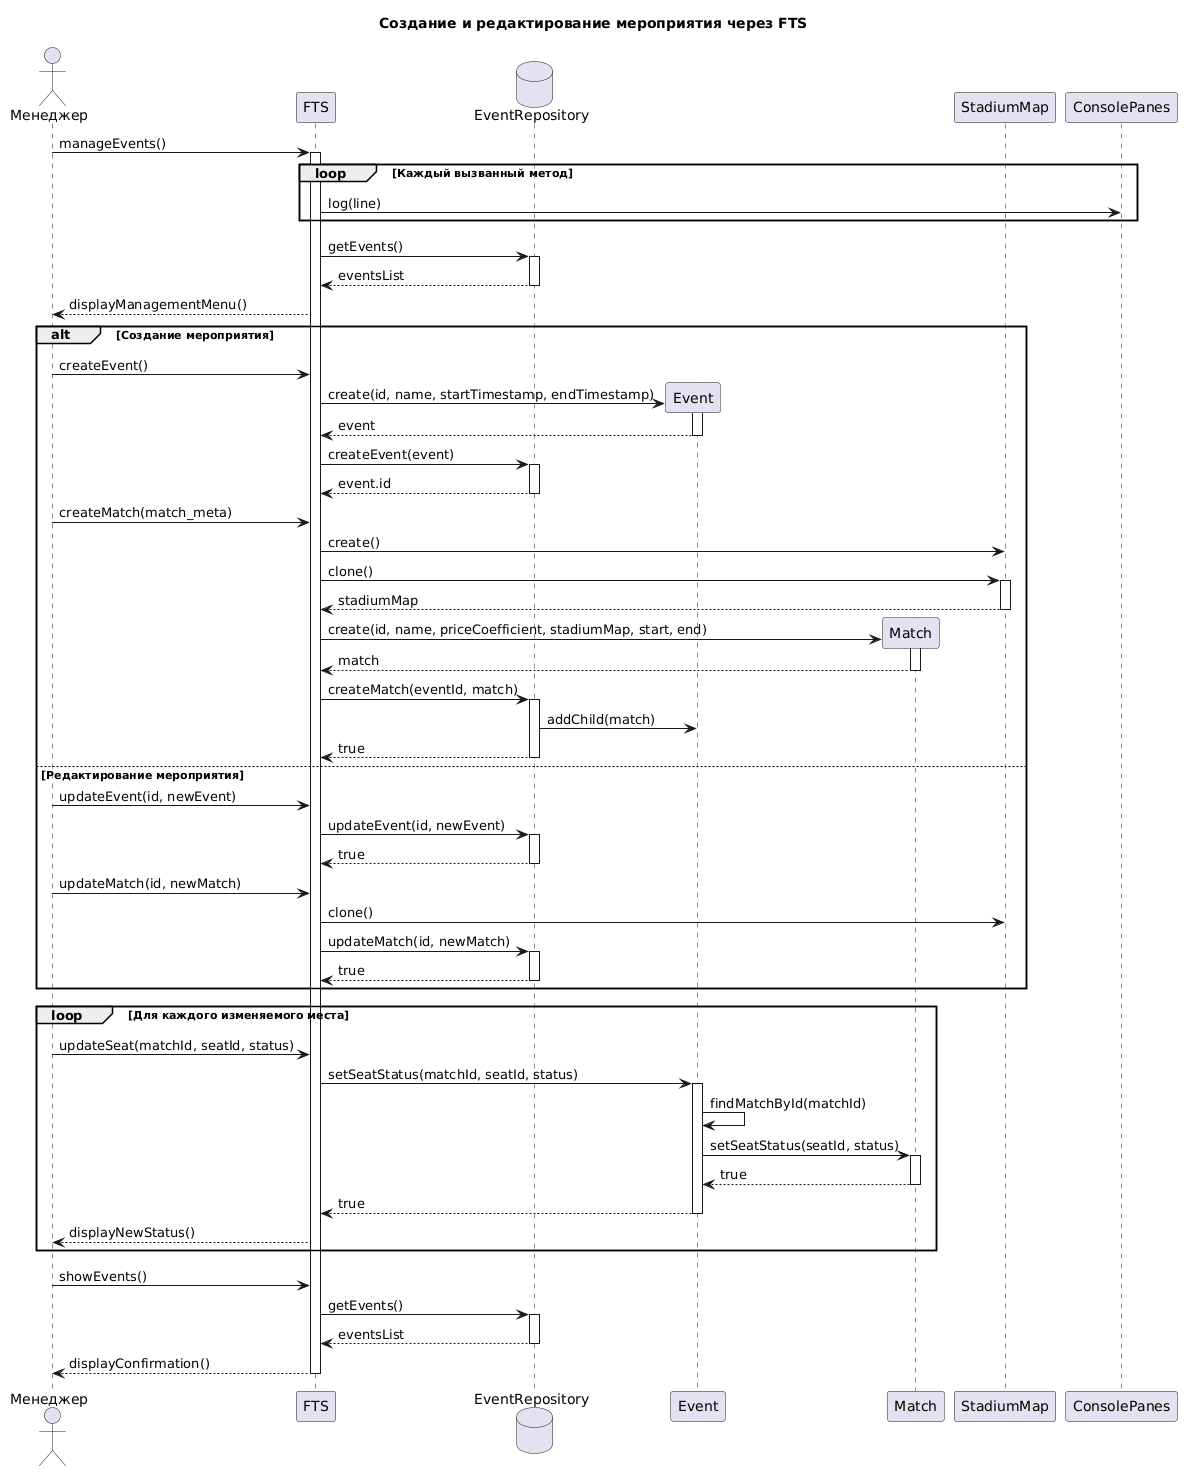
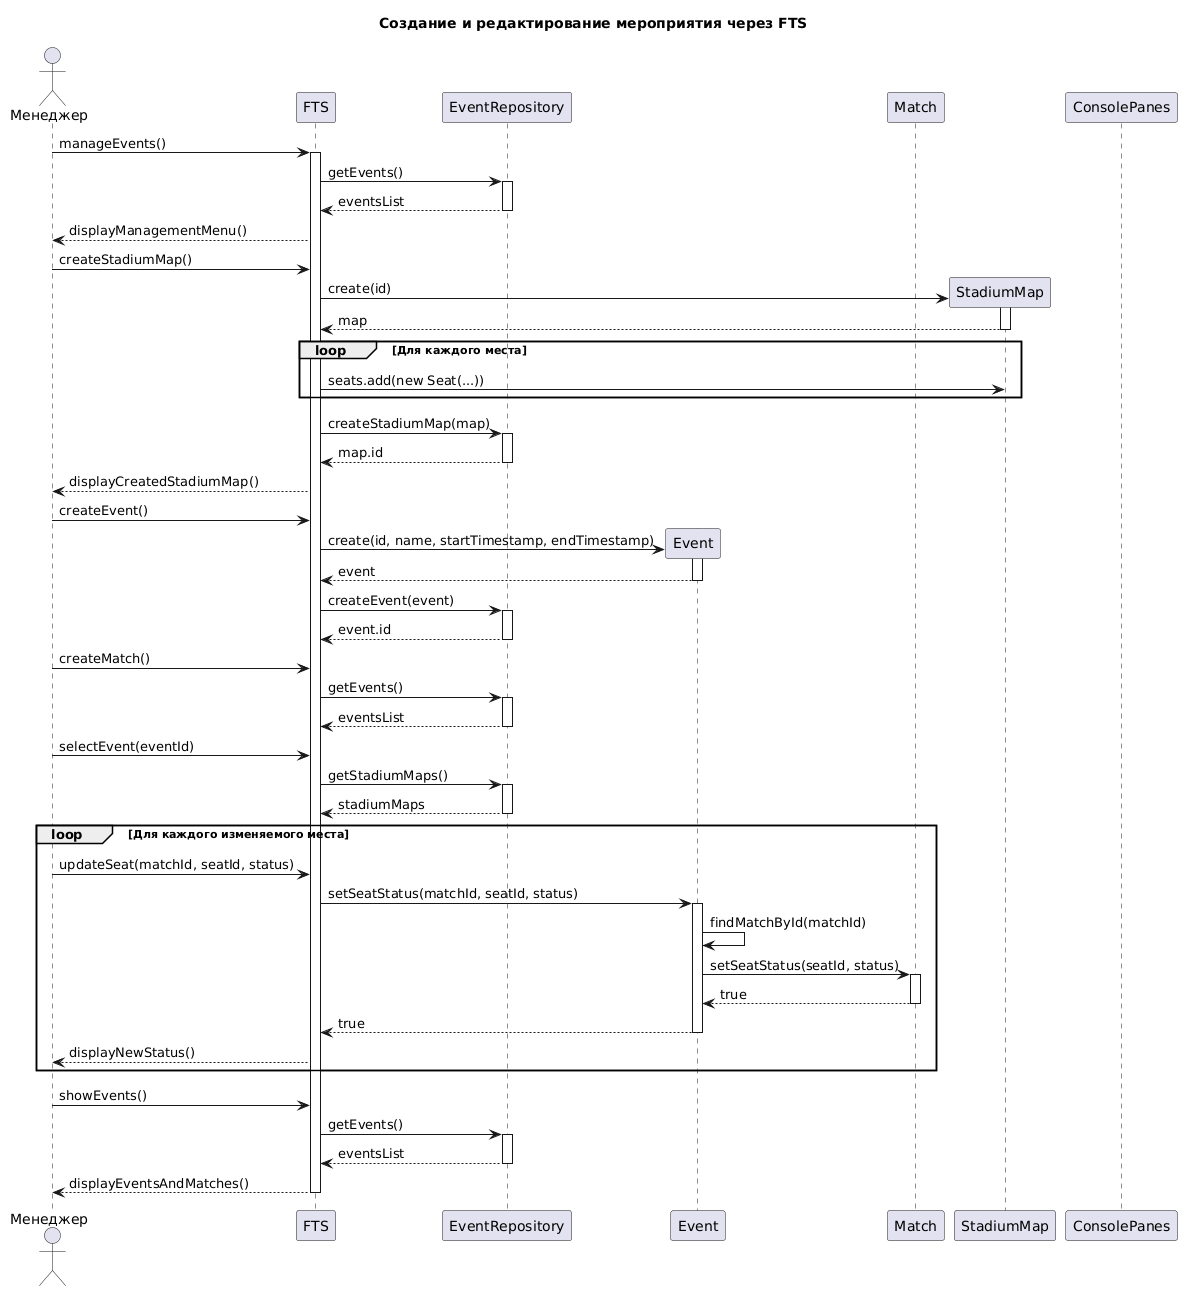
Major changes in Прецеденты +-[]-+

diff --git a/Преценденты/Создание и редактирование мероприятия/Диаграмма последовательности.md b/Преценденты/Создание и редактирование мероприятия/Диаграмма последовательности.md
@@ -16,25 +16,12 @@ participant "ConsolePanes" as Panes
 Manager -> FTS : manageEvents()
 activate FTS
 
-loop Каждый вызванный метод
-    FTS -> Panes : log(line)
-end
-
 FTS -> EventRepository : getEvents()
 activate EventRepository
 EventRepository --> FTS : eventsList
 deactivate EventRepository
 FTS --> Manager : displayManagementMenu()
 
-alt Панель управления картами стадиона
-    Manager -> FTS : manageStadiumMaps()
-    FTS -> EventRepository : getStadiumMaps()
-    activate EventRepository
-    EventRepository --> FTS : stadiumMaps
-    deactivate EventRepository
-    FTS --> Manager : displayStadiumMaps()
-
-    alt Создание карты стадиона
         Manager -> FTS : createStadiumMap()
         create StadiumMap
         FTS -> StadiumMap : create(id)
@@ -51,10 +38,8 @@ alt Панель управления картами стадиона
         EventRepository --> FTS : map.id
         deactivate EventRepository
         FTS --> Manager : displayCreatedStadiumMap()
-    end
-end
 
-alt Создание мероприятия
+
     Manager -> FTS : createEvent()
     create Event
     FTS -> Event : create(id, name, startTimestamp, endTimestamp)
@@ -66,7 +51,7 @@ alt Создание мероприятия
     activate EventRepository
     EventRepository --> FTS : event.id
     deactivate EventRepository
-else Создание матча
+
     Manager -> FTS : createMatch()
     FTS -> EventRepository : getEvents()
     activate EventRepository
@@ -79,55 +64,6 @@ else Создание матча
     EventRepository --> FTS : stadiumMaps
     deactivate EventRepository
 
-    alt Выбор существующей карты
-        Manager -> FTS : selectStadiumMap()
-        FTS -> EventRepository : findStadiumMapById(mapId)
-        activate EventRepository
-        EventRepository --> FTS : selectedMap
-        deactivate EventRepository
-    else Создание новой карты
-        Manager -> FTS : createStadiumMap()
-        create StadiumMap
-        FTS -> StadiumMap : create(id)
-        activate StadiumMap
-        StadiumMap --> FTS : newMap
-        deactivate StadiumMap
-        FTS -> EventRepository : createStadiumMap(newMap)
-        activate EventRepository
-        EventRepository --> FTS : newMap.id
-        deactivate EventRepository
-    end
-
-    FTS -> StadiumMap : clone()
-    activate StadiumMap
-    StadiumMap --> FTS : stadiumMap
-    deactivate StadiumMap
-
-    create Match
-    FTS -> Match : create(id, name, priceCoefficient, stadiumMap, start, end)
-    activate Match
-    Match --> FTS : match
-    deactivate Match
-
-    FTS -> EventRepository : createMatch(eventId, match)
-    activate EventRepository
-    EventRepository -> Event : addChild(match)
-    EventRepository --> FTS : true
-    deactivate EventRepository
-else Редактирование мероприятия
-    Manager -> FTS : updateEvent(id, newEvent)
-    FTS -> EventRepository : updateEvent(id, newEvent)
-    activate EventRepository
-    EventRepository --> FTS : true
-    deactivate EventRepository
-
-    Manager -> FTS : updateMatch(id, newMatch)
-    FTS -> StadiumMap : clone()
-    FTS -> EventRepository : updateMatch(id, newMatch)
-    activate EventRepository
-    EventRepository --> FTS : true
-    deactivate EventRepository
-end
 
 loop Для каждого изменяемого места
     Manager -> FTS : updateSeat(matchId, seatId, status)

diff --git a/Преценденты/Покупка билетов и абонементов/Диаграмма последовательности.md b/Преценденты/Покупка билетов и абонементов/Диаграмма последовательности.md
@@ -16,10 +16,6 @@ participant "ConsolePanes" as Panes
 User -> FTS : startPurchase()
 activate FTS
 
-loop Каждый вызванный метод
-    FTS -> Panes : log(line)
-end
-
 FTS -> FTS : getAvailableEvents()
 FTS -> EventRepository : getEvents()
 activate EventRepository
@@ -59,9 +55,7 @@ activate EventRepository
 EventRepository --> FTS : reservation
 deactivate EventRepository
 
-alt seatTaken
-    FTS --> User : seatTaken
-else seatReserved
+
     FTS -> Strategy : calculatePrice(seat, matches)
     Strategy --> FTS : price
     FTS --> User : showPurchaseDetails(event, match, seat, price)
@@ -74,7 +68,6 @@ else seatReserved
     activate Bank
     Bank -> Sber : createPurchase(token, description, amount)
     activate Sber
-    note over Sber : покупатель вводит данные карты\nна странице банка и подтверждает\nплатёж (3-D Secure)
     Sber --> Bank : url
     deactivate Sber
     Bank --> FTS : url
@@ -107,7 +100,7 @@ else seatReserved
     FTS -> FTS : showPurchaseConfirmation(pass)
     FTS -> FTS : sendTicketEmail(pass)
     FTS --> User : true
-end
+
 
 deactivate FTS
 @enduml

diff --git a/Преценденты/Возврат билетов и абонементов/Диаграмма последовательности.md b/Преценденты/Возврат билетов и абонементов/Диаграмма последовательности.md
@@ -16,10 +16,6 @@ participant "ConsolePanes" as Panes
 User -> FTS : startRefund()
 activate FTS
 
-loop Каждый вызванный метод
-    FTS -> Panes : log(line)
-end
-
 FTS -> User : requestScan()
 User -> FTS : passId
 
@@ -28,9 +24,6 @@ activate PassRepository
 PassRepository --> FTS : refundAllowed
 deactivate PassRepository
 
-alt Возврат запрещён
-    FTS --> User : scanAnotherPass()
-else Возврат разрешён
     FTS -> PassRepository : getPassById(passId)
     activate PassRepository
     PassRepository --> FTS : pass
@@ -73,7 +66,6 @@ else Возврат разрешён
     FTS -> FTS : sendEmail(email, text)
     FTS -> FTS : printReceipt(text)
     FTS --> User : waitForEnter()
-end
 
 deactivate FTS
 @enduml

diff --git a/Преценденты/Вывод аналитики по мероприятию/Диаграмма последовательности.md b/Преценденты/Вывод аналитики по мероприятию/Диаграмма последовательности.md
@@ -1,7 +1,5 @@
 ![Диаграмма](../../source/diagram4.png)
 
-Диаграмма показывает текущую реализацию аналитики в FTS.
-
 ```plantuml
 @startuml
 title Вывод аналитики по мероприятию через FTS

diff --git a/Преценденты/Проход на стадион по QR-коду/Диаграмма последовательности.md b/Преценденты/Проход на стадион по QR-коду/Диаграмма последовательности.md
@@ -80,4 +80,5 @@ end
 
 deactivate FTS
 @enduml
+
 ```
